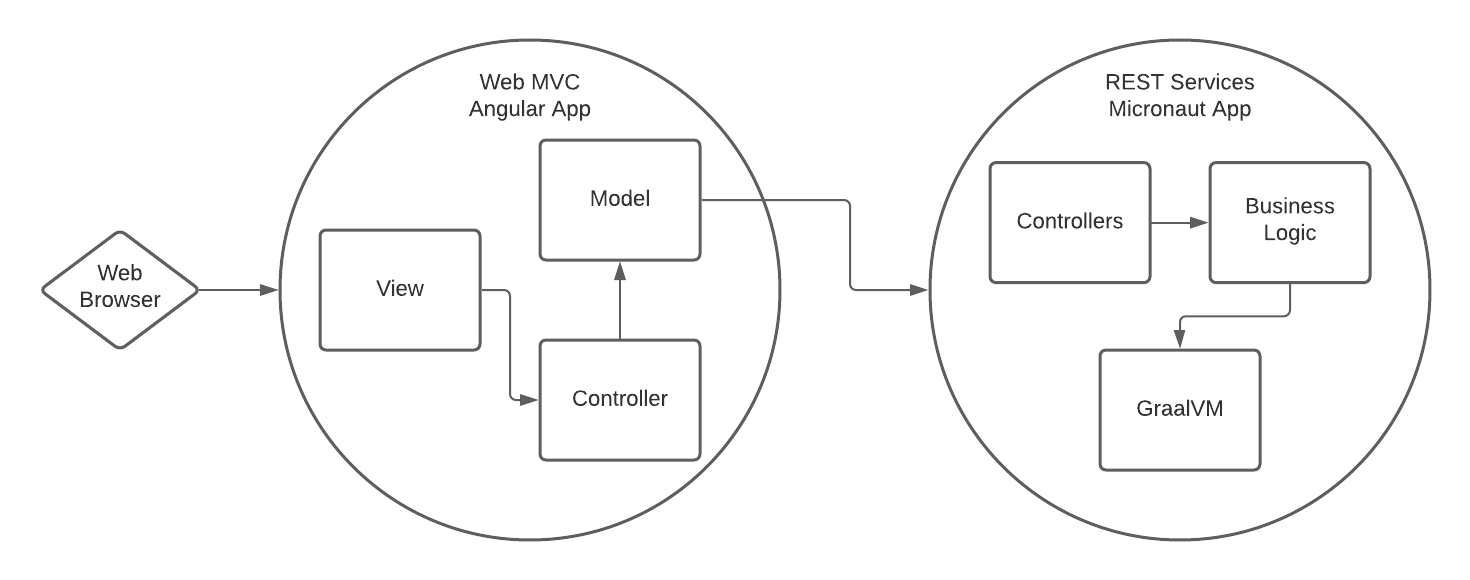
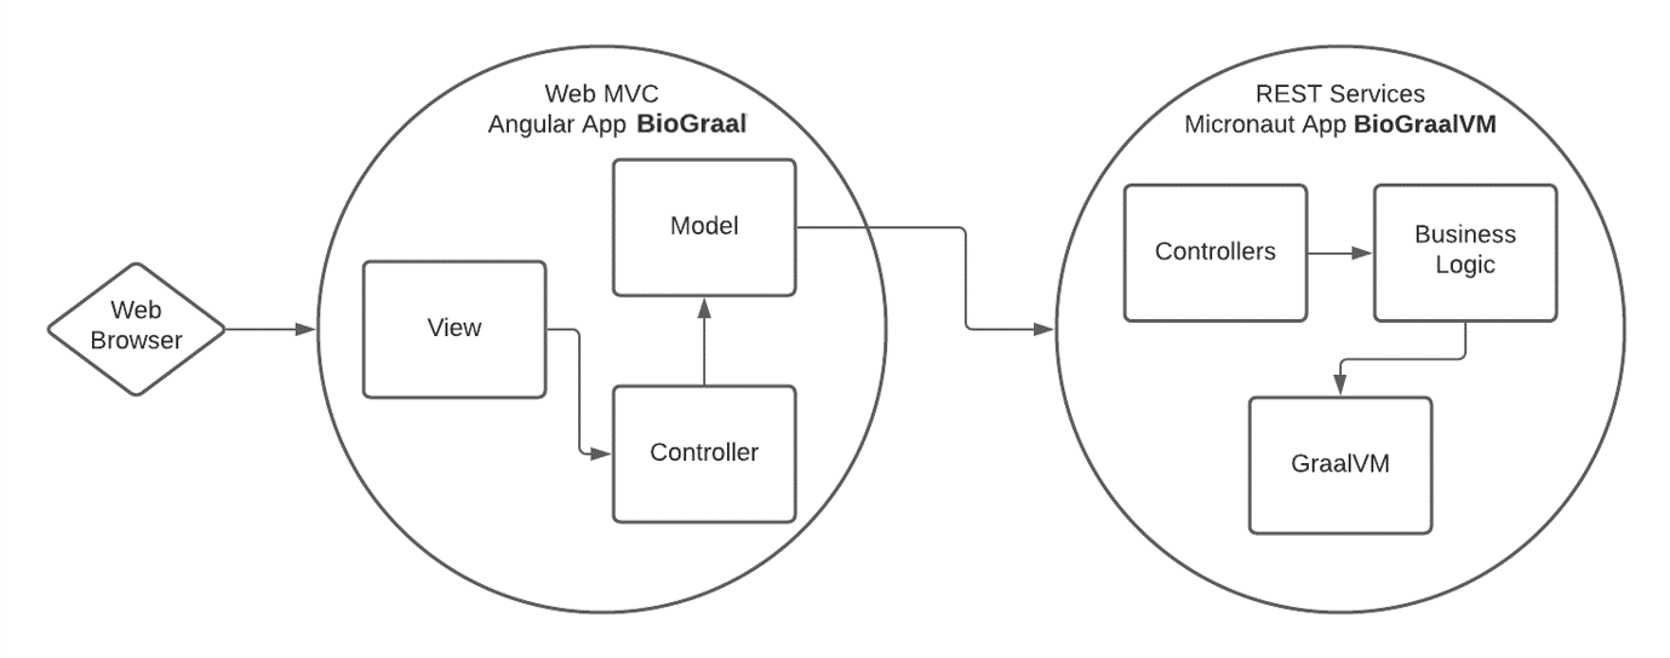
changes in diagram and version application

diff --git a/mngraalvm/src/main/java/com/msc/model/About.java b/mngraalvm/src/main/java/com/msc/model/About.java
@@ -14,7 +14,7 @@ public class About implements Serializable {
     private String version;
 
     public About(){
-        this.version = "v0.1";
+        this.version = "v2.0";
     }
 
     @JsonProperty
